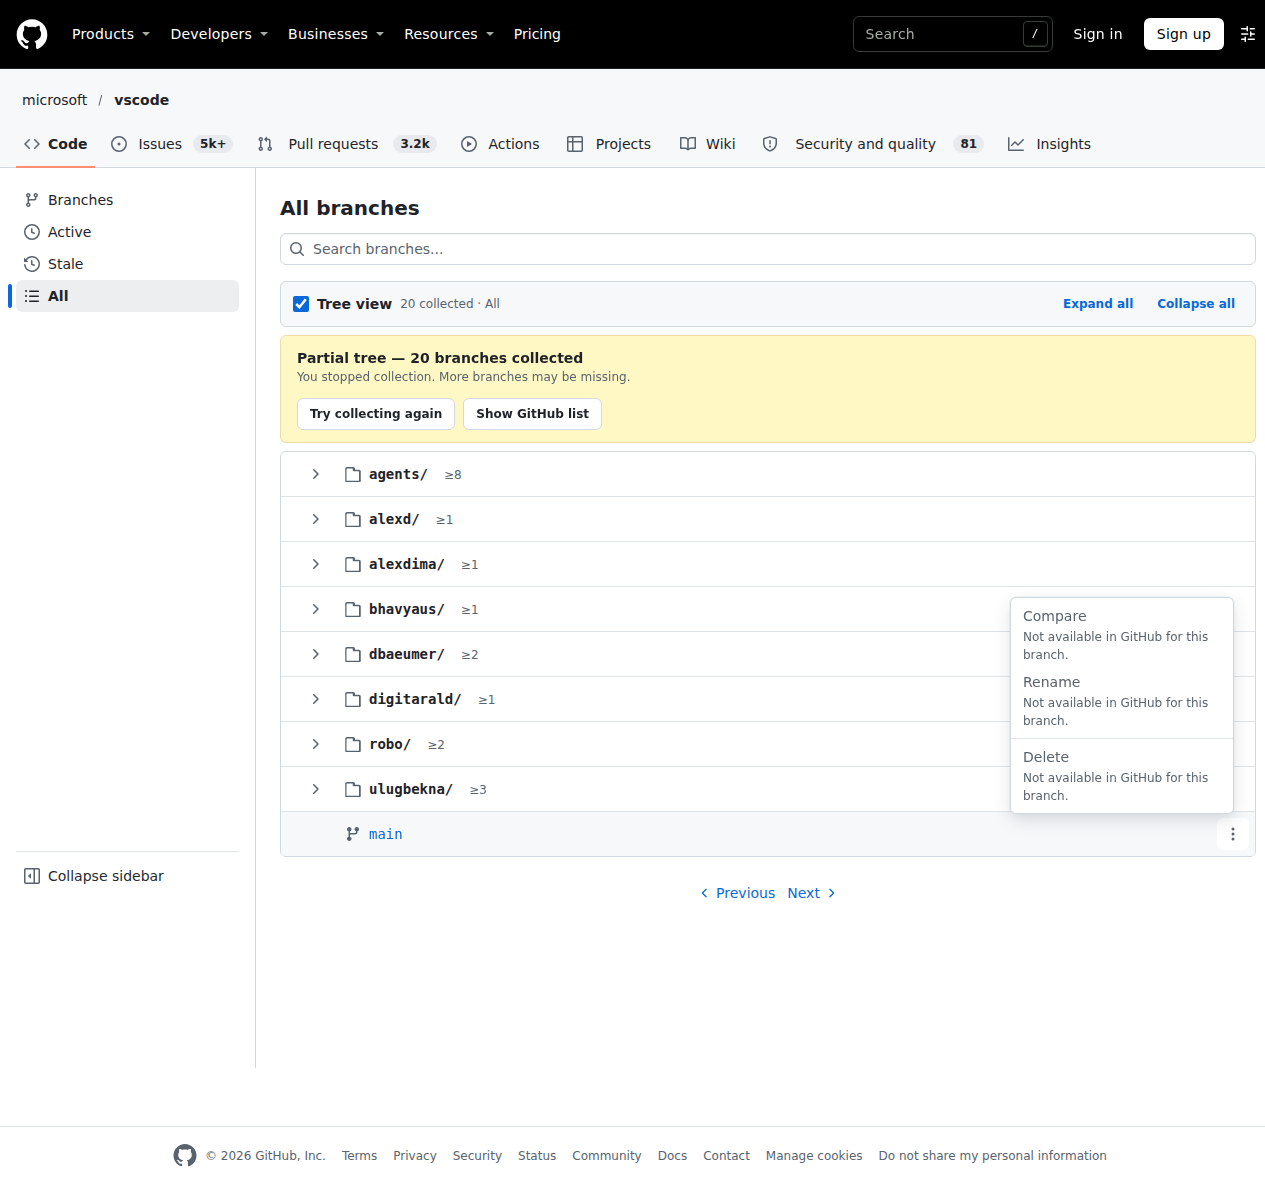
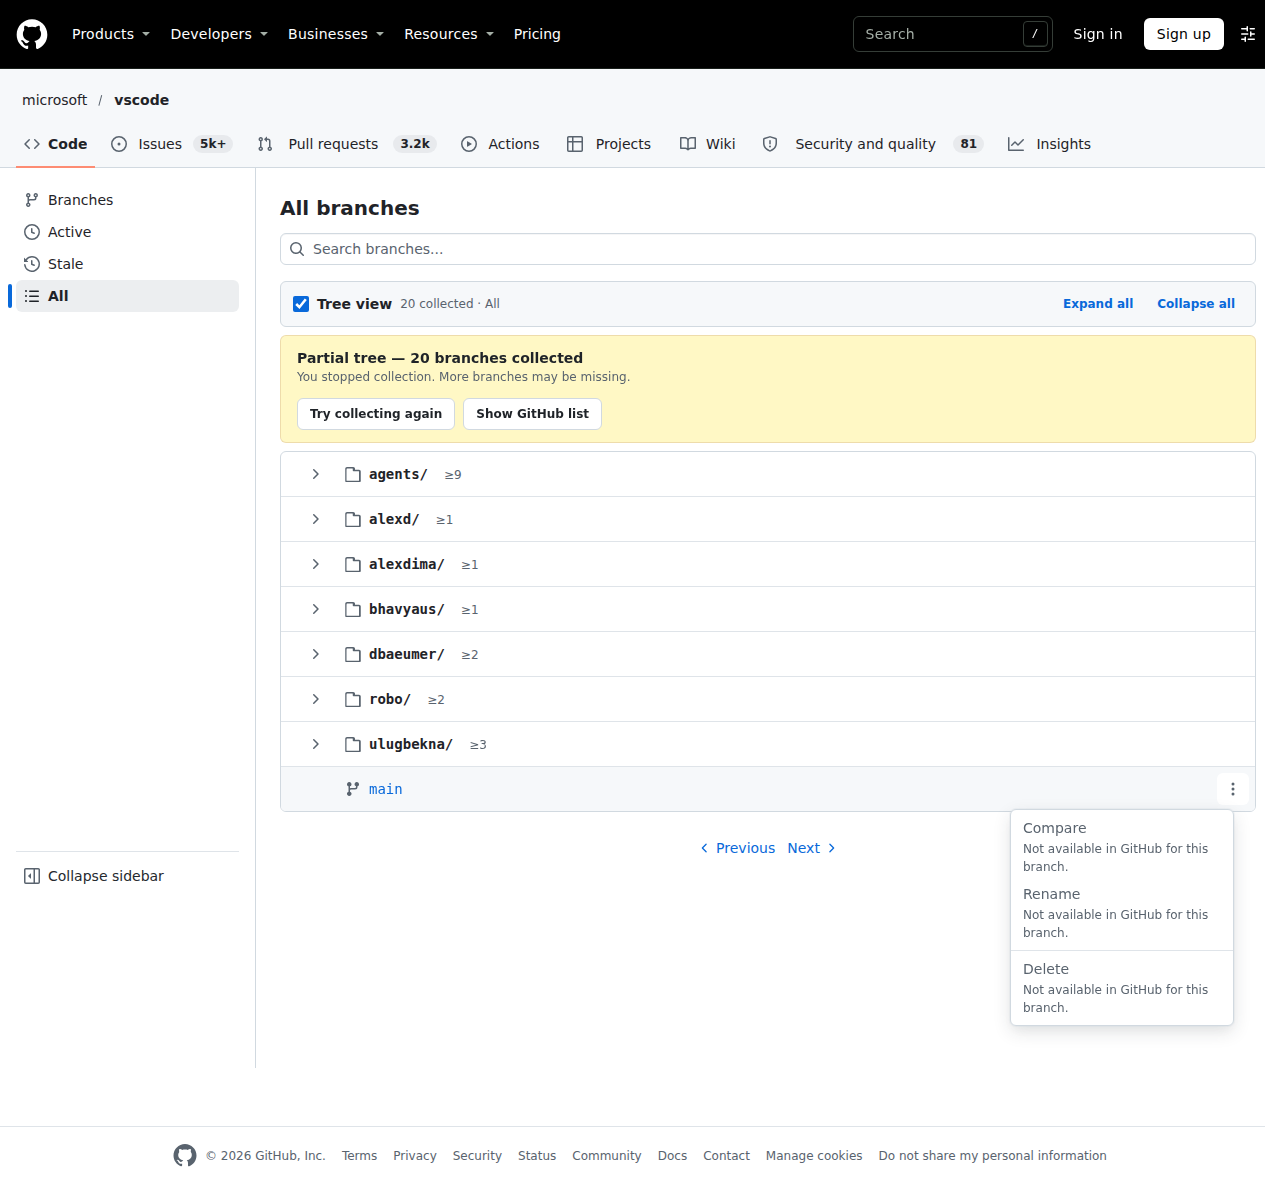
fix(ui): keep the menu in page coordinates, and test the token scope for real

diff --git a/tests/ui-mount.test.ts b/tests/ui-mount.test.ts
@@ -245,6 +245,25 @@ describe('mount', () => {
     expect(inertNow()).toBe(false);
   });
 
+  // The shipped regression: nothing carried the class the whole stylesheet hangs its tokens on,
+  // so every token-based declaration was dropped and the UI fell back to browser defaults.
+  // @req REQ-TR-12
+  it('gives the token scope to each element it inserts', { timeout: 20000 }, async () => {
+    load('vscode-all-first.html');
+    setup('/microsoft/vscode/branches/all', 'vscode-active.html');
+    await settled();
+
+    const scoped = [...document.querySelectorAll<HTMLElement>('.twiggy-toolbar, .twiggy-status')];
+    expect(scoped.length).toBeGreaterThan(1);
+    for (const node of scoped) expect(node.className).toContain('twiggy-root');
+
+    await advance('vscode-all-end.html');
+    const holder = document.querySelector<HTMLElement>('.twiggy-tree');
+    expect(holder).not.toBeNull();
+    expect(holder!.className).toContain('twiggy-root');
+    expect(holder!.contains(tree())).toBe(true);
+  });
+
   // @req REQ-TR-11
   it('offers the collecting strip while GitHub pages and the tree once it is done', async () => {
     load('vscode-all-first.html');

diff --git a/tests/styles.test.ts b/tests/styles.test.ts
@@ -173,8 +173,10 @@ describe('stylesheet', () => {
   // emits, so nothing matched and the UI fell back to browser defaults.
   // @req REQ-TR-12
   it('styles only classes the components emit', () => {
-    const styled = new Set([...bare.matchAll(/\.(twiggy-[a-z-]+)/g)].map((m) => m[1]!));
-    const dead = [...styled].filter((name) => !source.includes(name));
+    const styled = new Set([...bare.matchAll(/\.(twiggy-[a-z0-9-]+)/g)].map((m) => m[1]!));
+    // Whole tokens, not substrings: `.twiggy-status` must not be satisfied by `twiggy-status-title`.
+    const emitted = new Set([...source.matchAll(/twiggy-[a-z0-9-]+/g)].map((m) => m[0]));
+    const dead = [...styled].filter((name) => !emitted.has(name));
     expect(dead).toEqual([]);
   });
 

diff --git a/tests/ui-actions-menu.test.ts b/tests/ui-actions-menu.test.ts
@@ -102,6 +102,9 @@ describe('REQ-BA-1 actions menu', () => {
     const onChoose = vi.fn();
     openMenu(button, NAME, availability(), onChoose);
     expect(menu().getAttribute('aria-label')).toBe(COPY.actionsFor(NAME));
+    // The menu is appended to the body, outside the tree the mount scoped, so it carries the
+    // token scope itself.
+    expect(menu().classList).toContain('twiggy-root');
     expect(labels()).toEqual([COPY.compare, COPY.rename, COPY.delete]);
     // The divider sits between Rename and Delete and is not an entry itself.
     const children = [...menu().children];

diff --git a/src/ui/styles.css b/src/ui/styles.css
@@ -433,7 +433,7 @@ span.twiggy-disclosure {
 /* BranchActionsMenu */
 
 .twiggy-actions-menu {
-  position: fixed;
+  position: absolute;
   z-index: 2;
   width: 224px;
   padding-block: var(--twiggy-space-1);

diff --git a/docs/evidence/tree-view.md b/docs/evidence/tree-view.md
@@ -178,10 +178,10 @@ Taken in the browser at 1280 px against the live page:
 
 | Property | Light | Dark | Contract |
 | --- | --- | --- | --- |
-| Row height | 44 px | 44 px | `twiggy.rowHeight` \u2265 44 |
-| Row controls (disclosure, actions) | 44 \u00d7 44 px | 44 \u00d7 44 px | REQ-TA-7, 44 \u00d7 44 |
+| Row height | 44 px | 44 px | `twiggy.rowHeight` ≥ 44 |
+| Row controls (disclosure, actions) | 44 × 44 px | 44 × 44 px | REQ-TA-7, 44 × 44 |
 | Toolbar and strip buttons | 32 px high | 32 px high | REQ-TA-7 covers row controls; these follow GitHub's own button size |
-| Text contrast | 15.8:1 | 17.4:1 | \u2265 4.5:1 |
+| Text contrast | 15.8:1 | 17.4:1 | ≥ 4.5:1 |
 | Focus outline | 2 px, 2 px offset | 2 px, 2 px offset | 3:1 against the adjacent surface |
 | Indent per level | 20 px | 20 px | `twiggy.indent` 20 px |
 | Actions cell | 44 px, sticky, opaque | same | REQ-TR-8 |
@@ -214,7 +214,7 @@ Taken in the browser at 1280 px against the live page:
    region surviving long enough for Twiggy's empty state to appear, so the state is reachable but
    not reliably reached. The requirement is therefore not met on the live page as shipped.
 2. **Branches overview (REQ-TR-10).** `/branches` renders no `section[aria-label="Branches"]`, so
-   Twiggy leaves the whole page untouched \u2014 no toolbar, no strip, no tree.
+   Twiggy leaves the whole page untouched — no toolbar, no strip, no tree.
 3. **Toolbar wrapping at 640 (REQ-TB-1).** The spec asks for two rows at about 640 px. At exactly
    640 px the four controls still fit on one row, so they do not wrap; nothing clips and nothing
    scrolls sideways. The wrap rule is present and takes effect when the scope text is longer, for
